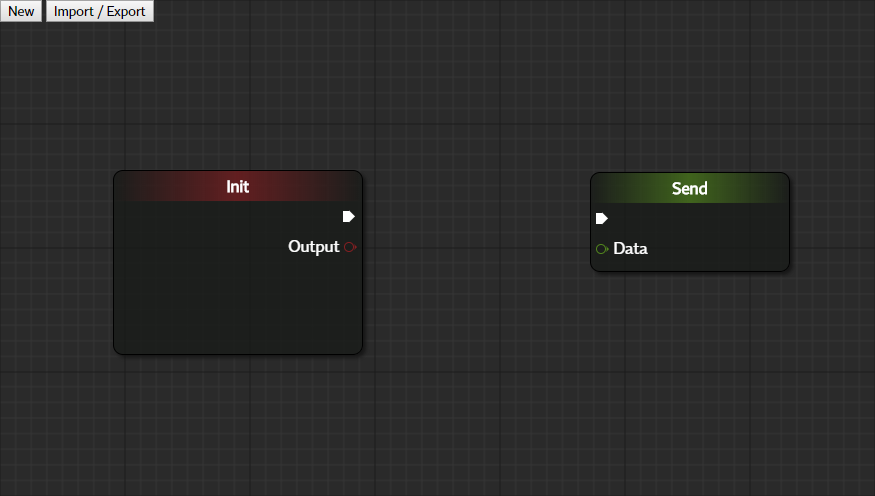
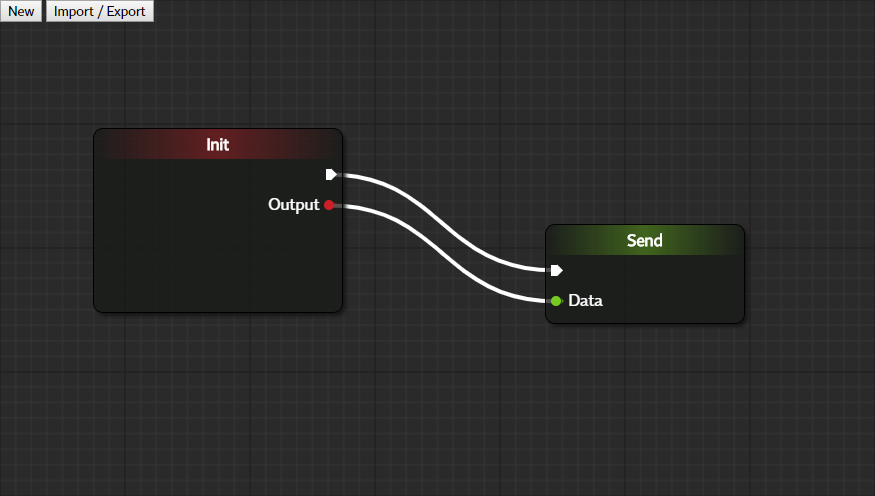
screenshot updated with lines

diff --git a/README.md b/README.md
@@ -8,7 +8,7 @@
 
 # TODO
 
-- Connecting nodes with lines.
+- Manage line connections in modal box.
 - Design edit modal box.
 
 
